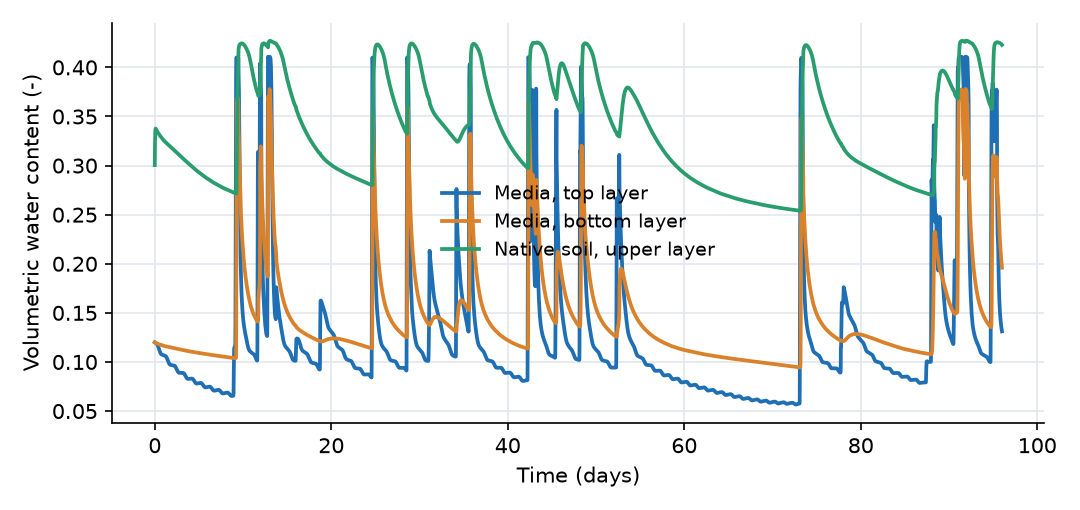
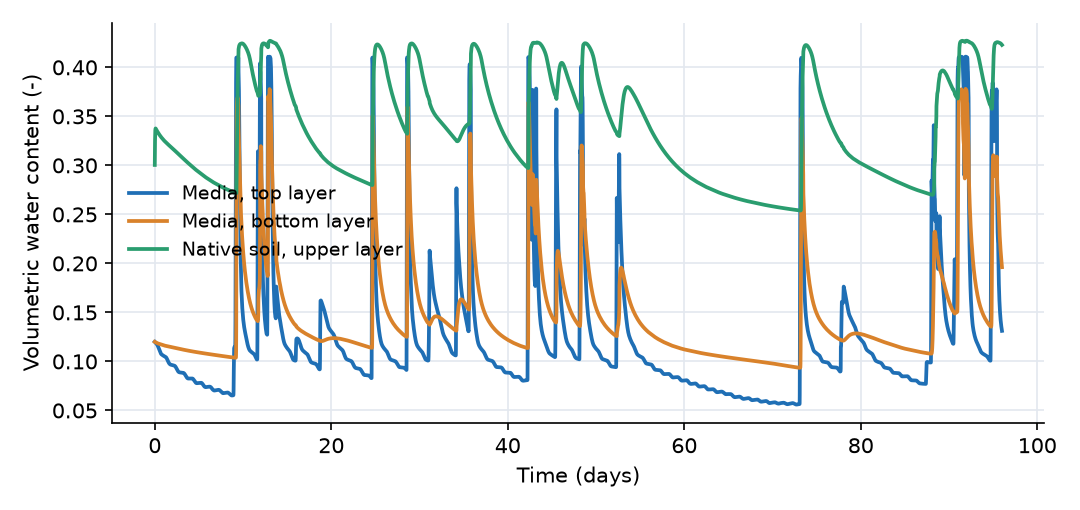
bioretention: re-run with corrected Penman slope; updated water budget and ET description

diff --git a/site/examples/bioretention/index.html b/site/examples/bioretention/index.html
@@ -24,7 +24,7 @@
 <aside class="ex-side">
   <div class="dlbox">
     <a class="btn primary big" href="../../downloads/bioretention.zip" download>Download model (.zip)</a>
-    <div class="muted">63 KB · 6 files · open <code>bioretention.ohq</code> in OpenHydroQual and press Run</div>
+    <div class="muted">64 KB · 6 files · open <code>bioretention.ohq</code> in OpenHydroQual and press Run</div>
     
   </div>
   <nav class="toc"><b>On this page</b>
@@ -56,15 +56,17 @@
 <p><strong>Exfiltration and recharge.</strong> <code>Exfiltration</code> (<code>aggregate_to_soil_link</code>) is Q = (H_gravel − H_native1)·K_sat,native/(D/2)·A·h_g/(h_g + 0.01), which uses the saturated native-soil conductivity and stops as the gravel empties. <code>Recharge</code> (<code>soil_to_fixedhead_link</code>) carries water from the lower native layer to the water table with Q = (H_native2 − H_wt)·K_eff/(D/2)·A.</p>
 <p><strong>Evapotranspiration.</strong> <code>Penman_ET</code> (type <code>Evapotranspiration_Penman (Soil)</code>) withdraws water from <code>Media_1</code> at</p>
 <p>ET = A · (θ/θ_s) · (Δ·E_r + γ·E_a)/(Δ + γ)  (m³/day, negative)</p>
-<p>with a radiation term E_r = −f_s·R_s·86400/(λ_v·1000) (m/day; R_s in W/m², λ_v = 2,501,000 − 2,370·T J/kg, f_s = 0.5), an aerodynamic term E_a = B·e_s·(RH − 1) with B = 0.000102·u/[ln(z₂/z₀)]², e_s = 611·exp(17.27T/(237.3 + T)) Pa, z₂ = 10 m, z₀ = 0.0003 m, and γ = 66.8 Pa/°C. The factor θ/θ_s reduces ET as the layer dries. In the plugin, the slope of the saturation vapour pressure curve is written as Δ = 4098·e_s/(237.3 + T), without the square on the denominator of the usual formula, so Δ is about 260 times larger than the standard value. As a result, Δ/(Δ + γ) is close to 1 and the computed ET is practically the radiation term alone; wind speed and humidity have almost no effect.</p>
+<p>with a radiation term E_r = −f_s·R_s·86400/(λ_v·1000) (m/day; R_s in W/m², λ_v = 2,501,000 − 2,370·T J/kg, f_s = 0.5), an aerodynamic term E_a = B·e_s·(RH − 1) with B = 0.000102·u/[ln(z₂/z₀)]², e_s = 611·exp(17.27T/(237.3 + T)) Pa, z₂ = 10 m, z₀ = 0.0003 m, γ = 66.8 Pa/°C, and the slope of the saturation vapour pressure curve</p>
+<p>Δ = 4098 · e_s / (237.3 + T)²  (Pa/°C)</p>
+<p>This is the standard Penman combination of an energy term and a drying-power term, each weighted by its share of Δ + γ. At 25 °C, Δ ≈ 189 Pa/°C, so the radiation term carries about 74% of the weight and the aerodynamic term about 26%. The aerodynamic term grows with wind speed u and with the vapour pressure deficit e_s·(1 − RH). The factor θ/θ_s reduces ET as the layer dries.</p>
 <h2>What to look for in the results</h2>
 <ul>
-<li><strong>Water budget.</strong> Over 96 days, 370.6 mm of rain falls, delivering 775 m³ to the cell (738 m³ of runoff and 37 m³ of direct rain). Of this, 46% leaves through the underdrain (356 m³), 35% exfiltrates into the native soil (269 m³), 14% overflows (111 m³) and 2% evaporates (15 m³); the rest is stored in the soil at the end. The storage changes and outflows balance the rainfall to within 0.1%.</li>
+<li><strong>Water budget.</strong> Over 96 days, 370.6 mm of rain falls on the 2,100 m² of parking area and cell, 778 m³ in total. The cell receives 738 m³ of runoff and 37 m³ of direct rain. The storm sewer receives 484 m³ (62%): about 357 m³ through the underdrain (46%) and about 127 m³ as overflow (16%). About 275 m³ (35%) exfiltrates into the native soil, of which 263 m³ reaches the water table by the end of the run. Evapotranspiration removes 14 m³ (1.8%), and the media, gravel and native soil hold 16 m³ more water at the end than at the start. The storage changes, boundary inflows and ET balance the rainfall to within 0.1%.</li>
 <li><strong>Overflow only in large storms.</strong> The ponding depth reaches the 0.25 m crest only in the 47 mm storm on day 12 and the 118 mm storm on day 91, when the runoff rate exceeds what the media can take in. All other storms are fully treated.</li>
 <li><strong>Short ponding.</strong> In most storms the ponding zone empties within a few hours of the end of the rain, because the media conducts 1.5 m/day when saturated.</li>
 <li><strong>Internal water storage.</strong> The gravel water level rises to 0.12 to 0.14 m in most storms, so the underdrain flows for only about 7 days in total. Between storms the 0.1 m below the invert drains slowly into the native soil.</li>
 <li><strong>Fast media, slow native soil.</strong> The media moisture swings between near-residual (0.06) and saturation (0.41). The native loam stays between 0.25 and 0.43 and drains more slowly, which limits exfiltration.</li>
-<li><strong>Evapotranspiration.</strong> ET averages 1.5 mm/day over the cell. It is close to 3 mm/day right after a storm and falls below 1 mm/day after a week without rain, as the top layer dries toward its residual water content.</li>
+<li><strong>Evapotranspiration.</strong> ET averages 1.5 mm/day over the cell. It reaches 2 to 3 mm/day in the day or two after a storm and falls to about 1 mm/day or less after a week without rain, as the top layer dries toward its residual water content. ET is limited by the water in the top layer more than by the weather: the potential rate on a summer day is several mm/day.</li>
 </ul>
 <h2>Assumptions and limitations</h2>
 <ul>
@@ -72,10 +74,10 @@
 <li>The ponding zone has vertical sides, so its surface area does not grow with depth.</li>
 <li>Four media and soil layers are a coarse discretization of the vertical profile. Finer layers resolve wetting fronts better at a higher computing cost.</li>
 <li>The head of each soil block is referenced to its top. At the link from the native soil to the water table, which uses half a block thickness as its length, this makes the gravity gradient 2 (twice that of a cell-centred formulation) when the bottom block is saturated. At the pond-to-media link it has the opposite effect: the gravity term over the top half layer is left out, and infiltration is driven by ponding depth and suction alone.</li>
-<li>The Penman source uses a slope Δ that is not squared in the denominator (see above), so ET depends almost only on solar radiation. Evapotranspiration is taken only from the top 0.2 m, with no explicit root uptake or plant water stress, and it can dry the top layer to its residual water content.</li>
+<li>The radiation term uses half of the incoming solar radiation as available energy (f_s = 0.5), a simple stand-in for net radiation and soil heat flux. Evapotranspiration is taken only from the top 0.2 m, with no explicit root uptake or plant water stress, and it can dry the top layer to its residual water content.</li>
 <li>The parking area has no depression storage or losses. Runoff water quality is not modelled.</li>
 <li>Soil hydraulic parameters are textbook values for a loamy sand media and a loam native soil, not site measurements. The media conductivity is set lower than that of a new loamy sand to represent some clogging.</li>
-<li>The wind speed unit in the source data was not documented. Because the aerodynamic term has almost no weight in this ET formulation, the assumption made in the conversion has a negligible effect on the results.</li>
+<li>Data assumption: the wind speed unit in the source record was not documented. The values were assumed to be in mph, converted to m/s (×0.447), and taken as measured at z₂ = 10 m, the standard height of an airport anemometer. If the original values were in another unit, the aerodynamic part of ET (about a quarter of the total weight) would be scaled accordingly.</li>
 </ul></section>
 <section id="diagram"><h2>Model diagram</h2>
 <div class="diagram"><svg xmlns="http://www.w3.org/2000/svg" viewBox="140 -60 1370 2166" class="ohq-diagram" style="max-width:685px" role="img" aria-label="Model diagram">
@@ -150,11 +152,11 @@
 </div>
 <h3>Sources <small>2</small></h3><p class='kind-blurb'>External inputs or sinks applied to blocks: rainfall, evaporation, loads, exchange with the atmosphere.</p><div class='comp-list'>
 <details class='comp' id='c-Rain'><summary><span class='cname'>Rain</span><span class='ctype'>Precipitation</span><span class='crole'><p>Hourly rainfall at BWI airport, Maryland, 1 July to 4 October 2010, applied to the parking area and to the ponding zone.</p></span></summary><div class='cbody'><p class=type-help><b>Precipitation:</b> Precipitation</p><table class='props'><thead><tr><th>Property</th><th>Value</th><th>Unit</th><th>Meaning</th></tr></thead><tbody><tr><td>Precipitation Cumulative</td><td class='v'>rainfall.txt</td><td>m</td><td></td></tr></tbody></table></div></details>
-<details class='comp' id='c-Penman-ET'><summary><span class='cname'>Penman_ET</span><span class='ctype'>Evapotranspiration_Penman (Soil) · soil_evapotranspiration_models</span><span class='crole'><p>Penman-type evapotranspiration from the top media layer, driven by hourly air temperature, relative humidity, solar radiation and wind speed, with half of the incoming solar radiation taken as available energy.</p></span></summary><div class='cbody'><p class=type-help><b>Evapotranspiration_Penman (Soil):</b> Penman Evapotranspiration model for soil</p><table class='props'><thead><tr><th>Property</th><th>Value</th><th>Unit</th><th>Meaning</th></tr></thead><tbody><tr><td>Temperature time series (°C)</td><td class='v'>air_temperature.csv</td><td></td><td></td></tr><tr><td>Relative humidity time series (fraction, 0-1)</td><td class='v'>relative_humidity.csv</td><td></td><td></td></tr><tr><td>Solar Radiation (W/m^2)</td><td class='v'>solar_radiation.csv</td><td></td><td></td></tr><tr><td>wind time series</td><td class='v'>wind_speed.csv</td><td>m/s</td><td></td></tr><tr><td>Solar radiation scale factor</td><td class='v'>0.5</td><td></td><td></td></tr><tr><td>Wind scale factor</td><td class='v'>1</td><td></td><td></td></tr><tr><td>Wind measurement elevation</td><td class='v'>10</td><td>m</td><td></td></tr><tr><td>Roughness height</td><td class='v'>0.0003</td><td>m</td><td></td></tr><tr><td>psychrometric constant (Pa/C)</td><td class='v'>66.8</td><td></td><td></td></tr></tbody></table></div></details>
+<details class='comp' id='c-Penman-ET'><summary><span class='cname'>Penman_ET</span><span class='ctype'>Evapotranspiration_Penman (Soil) · soil_evapotranspiration_models</span><span class='crole'><p>Penman-type evapotranspiration from the top media layer, driven by hourly air temperature, relative humidity, solar radiation and wind speed, with half of the incoming solar radiation taken as available energy. Uses the standard Penman combination equation.</p></span></summary><div class='cbody'><p class=type-help><b>Evapotranspiration_Penman (Soil):</b> Penman Evapotranspiration model for soil</p><table class='props'><thead><tr><th>Property</th><th>Value</th><th>Unit</th><th>Meaning</th></tr></thead><tbody><tr><td>Temperature time series (°C)</td><td class='v'>air_temperature.csv</td><td></td><td></td></tr><tr><td>Relative humidity time series (fraction, 0-1)</td><td class='v'>relative_humidity.csv</td><td></td><td></td></tr><tr><td>Solar Radiation (W/m^2)</td><td class='v'>solar_radiation.csv</td><td></td><td></td></tr><tr><td>wind time series</td><td class='v'>wind_speed.csv</td><td>m/s</td><td></td></tr><tr><td>Solar radiation scale factor</td><td class='v'>0.5</td><td></td><td></td></tr><tr><td>Wind scale factor</td><td class='v'>1</td><td></td><td></td></tr><tr><td>Wind measurement elevation</td><td class='v'>10</td><td>m</td><td></td></tr><tr><td>Roughness height</td><td class='v'>0.0003</td><td>m</td><td></td></tr><tr><td>psychrometric constant (Pa/C)</td><td class='v'>66.8</td><td></td><td></td></tr></tbody></table></div></details>
 </div></section>
-<section id="inputs"><h2>Input files</h2><table class="props files"><tbody><tr><td><code>rainfall.txt</code></td><td><p>Rainfall in the three-column precipitation format: interval start (day), interval end (day), rainfall depth in the interval (m). Hourly intervals; day 0 is 1 July 2010; dry hours are omitted. Source: NOAA hourly precipitation record at Baltimore/Washington International Airport (BWI), Maryland, USA (US public domain, 0.01 in = 0.254 mm resolution).</p></td></tr><tr><td><code>air_temperature.csv</code></td><td><p>Air temperature (°C) versus time (day, day 0 = 1 July 2010), roughly hourly. Hourly weather record at BWI airport, Maryland, USA.</p></td></tr><tr><td><code>relative_humidity.csv</code></td><td><p>Relative humidity as a fraction (0 to 1) versus time (day). Hourly weather record at BWI airport, Maryland, USA.</p></td></tr><tr><td><code>solar_radiation.csv</code></td><td><p>Incoming solar radiation (W/m²) versus time (day), every 30 minutes. Weather record at BWI airport, Maryland, USA.</p></td></tr><tr><td><code>wind_speed.csv</code></td><td><p>Wind speed (m/s) versus time (day). Hourly weather record at BWI airport, Maryland, USA. The source file gave no unit; its values were taken to be in mph and multiplied by 0.447 to convert to m/s.</p></td></tr></tbody></table></section>
+<section id="inputs"><h2>Input files</h2><table class="props files"><tbody><tr><td><code>rainfall.txt</code></td><td><p>Rainfall in the three-column precipitation format: interval start (day), interval end (day), rainfall depth in the interval (m). Hourly intervals; day 0 is 1 July 2010; dry hours are omitted. Source: NOAA hourly precipitation record at Baltimore/Washington International Airport (BWI), Maryland, USA (US public domain, 0.01 in = 0.254 mm resolution).</p></td></tr><tr><td><code>air_temperature.csv</code></td><td><p>Air temperature (°C) versus time (day, day 0 = 1 July 2010), roughly hourly. Hourly weather record at BWI airport, Maryland, USA.</p></td></tr><tr><td><code>relative_humidity.csv</code></td><td><p>Relative humidity as a fraction (0 to 1) versus time (day). Hourly weather record at BWI airport, Maryland, USA.</p></td></tr><tr><td><code>solar_radiation.csv</code></td><td><p>Incoming solar radiation (W/m²) versus time (day), every 30 minutes. Weather record at BWI airport, Maryland, USA.</p></td></tr><tr><td><code>wind_speed.csv</code></td><td><p>Wind speed (m/s) versus time (day). Hourly weather record at BWI airport, Maryland, USA. Data assumption: the source file gave no unit; its values were taken to be in mph, multiplied by 0.447 to convert to m/s, and treated as measured at 10 m height.</p></td></tr></tbody></table></section>
 <section id="settings"><h2>Simulation settings</h2><table class="props narrow"><tbody><tr><td>Start time</td><td class='v'>0</td></tr><tr><td>End time</td><td class='v'>96.0</td></tr><tr><td>Initial time step</td><td class='v'>0.001</td></tr><tr><td>Write interval (steps)</td><td class='v'>10</td></tr></tbody></table></section>
-<section id="results"><h2>Results</h2><p class="muted">Produced by running the downloaded model unchanged.</p><figure><img src='plot_1.png' alt='Inflow and outflows of the cell' loading='lazy'><figcaption><b>Inflow and outflows of the cell</b> Runoff peaks are cut down to a few hundred m³/day at most. The underdrain and exfiltration release water over hours to days, and overflow occurs only in the 47 mm storm on day 12 and the 118 mm storm on day 91.</figcaption></figure><figure><img src='plot_2.png' alt='Water levels in the ponding zone and the gravel' loading='lazy'><figcaption><b>Water levels in the ponding zone and the gravel</b> Ponding is short-lived and reaches the 0.25 m overflow crest only in the largest storms. The gravel water level rises above the underdrain invert (0.1 m) in each storm and falls back to it, and below it, by exfiltration.</figcaption></figure><figure><img src='plot_3.png' alt='Moisture content of the media and native soil' loading='lazy'><figcaption><b>Moisture content of the media and native soil</b> The sandy media saturates briefly in storms and then drains quickly; the top layer keeps drying by evapotranspiration toward the residual water content. The finer native soil stays wetter and responds more slowly.</figcaption></figure><figure><img src='plot_4.png' alt='Evapotranspiration from the media' loading='lazy'><figcaption><b>Evapotranspiration from the media</b> ET follows the daily solar cycle and is largest just after storms, when the top layer is wet. It declines through dry spells as the media dries.</figcaption></figure></section>
+<section id="results"><h2>Results</h2><p class="muted">Produced by running the downloaded model unchanged.</p><figure><img src='plot_1.png' alt='Inflow and outflows of the cell' loading='lazy'><figcaption><b>Inflow and outflows of the cell</b> Runoff peaks are cut down to a few hundred m³/day at most. The underdrain and exfiltration release water over hours to days, and overflow occurs only in the 47 mm storm on day 12 and the 118 mm storm on day 91.</figcaption></figure><figure><img src='plot_2.png' alt='Water levels in the ponding zone and the gravel' loading='lazy'><figcaption><b>Water levels in the ponding zone and the gravel</b> Ponding is short-lived and reaches the 0.25 m overflow crest only in the largest storms. The gravel water level rises above the underdrain invert (0.1 m) in each storm and falls back to it, and below it, by exfiltration.</figcaption></figure><figure><img src='plot_3.png' alt='Moisture content of the media and native soil' loading='lazy'><figcaption><b>Moisture content of the media and native soil</b> The sandy media saturates briefly in storms and then drains quickly; the top layer keeps drying by evapotranspiration toward the residual water content. The finer native soil stays wetter and responds more slowly.</figcaption></figure><figure><img src='plot_4.png' alt='Evapotranspiration from the media' loading='lazy'><figcaption><b>Evapotranspiration from the media</b> ET follows the daily cycle of radiation, temperature and humidity and is largest just after storms, when the top layer is wet. It declines through dry spells as the media dries.</figcaption></figure></section>
 </article></main>
 <footer class="foot"><div class="wrap">OpenHydroQual is open source. This example is free to use and adapt.
 <a href="https://github.com/ArashMassoudieh/OpenHydroQual-Examples/tree/main/examples/bioretention">View source on GitHub</a>.</div></footer>

diff --git a/examples/bioretention/README.md b/examples/bioretention/README.md
@@ -29,13 +29,13 @@ components:
   Native_1_to_2: Unsaturated flow between the two native soil layers. Positive downward.
   Recharge: Flow from the native soil to the water table. Positive downward.
   Rain: Hourly rainfall at BWI airport, Maryland, 1 July to 4 October 2010, applied to the parking area and to the ponding zone.
-  Penman_ET: "Penman-type evapotranspiration from the top media layer, driven by hourly air temperature, relative humidity, solar radiation and wind speed, with half of the incoming solar radiation taken as available energy."
+  Penman_ET: "Penman-type evapotranspiration from the top media layer, driven by hourly air temperature, relative humidity, solar radiation and wind speed, with half of the incoming solar radiation taken as available energy. Uses the standard Penman combination equation."
 inputs:
   rainfall.txt: "Rainfall in the three-column precipitation format: interval start (day), interval end (day), rainfall depth in the interval (m). Hourly intervals; day 0 is 1 July 2010; dry hours are omitted. Source: NOAA hourly precipitation record at Baltimore/Washington International Airport (BWI), Maryland, USA (US public domain, 0.01 in = 0.254 mm resolution)."
   air_temperature.csv: "Air temperature (°C) versus time (day, day 0 = 1 July 2010), roughly hourly. Hourly weather record at BWI airport, Maryland, USA."
   relative_humidity.csv: "Relative humidity as a fraction (0 to 1) versus time (day). Hourly weather record at BWI airport, Maryland, USA."
   solar_radiation.csv: "Incoming solar radiation (W/m²) versus time (day), every 30 minutes. Weather record at BWI airport, Maryland, USA."
-  wind_speed.csv: "Wind speed (m/s) versus time (day). Hourly weather record at BWI airport, Maryland, USA. The source file gave no unit; its values were taken to be in mph and multiplied by 0.447 to convert to m/s."
+  wind_speed.csv: "Wind speed (m/s) versus time (day). Hourly weather record at BWI airport, Maryland, USA. Data assumption: the source file gave no unit; its values were taken to be in mph, multiplied by 0.447 to convert to m/s, and treated as measured at 10 m height."
 plots:
   - title: Inflow and outflows of the cell
     ylabel: Flow (m³/day)
@@ -62,7 +62,7 @@ plots:
     ylabel: ET (m³/day, negative = loss)
     series:
       - {column: "Media_1_Evapotranspiration", label: "Evapotranspiration"}
-    caption: ET follows the daily solar cycle and is largest just after storms, when the top layer is wet. It declines through dry spells as the media dries.
+    caption: ET follows the daily cycle of radiation, temperature and humidity and is largest just after storms, when the top layer is wet. It declines through dry spells as the media dries.
 ---
 
 ## What this model represents
@@ -107,16 +107,20 @@ so there is no underdrain flow while the gravel water depth is below 0.1 m. The 
 
   ET = A · (θ/θ_s) · (Δ·E_r + γ·E_a)/(Δ + γ)  (m³/day, negative)
 
-with a radiation term E_r = −f_s·R_s·86400/(λ_v·1000) (m/day; R_s in W/m², λ_v = 2,501,000 − 2,370·T J/kg, f_s = 0.5), an aerodynamic term E_a = B·e_s·(RH − 1) with B = 0.000102·u/[ln(z₂/z₀)]², e_s = 611·exp(17.27T/(237.3 + T)) Pa, z₂ = 10 m, z₀ = 0.0003 m, and γ = 66.8 Pa/°C. The factor θ/θ_s reduces ET as the layer dries. In the plugin, the slope of the saturation vapour pressure curve is written as Δ = 4098·e_s/(237.3 + T), without the square on the denominator of the usual formula, so Δ is about 260 times larger than the standard value. As a result, Δ/(Δ + γ) is close to 1 and the computed ET is practically the radiation term alone; wind speed and humidity have almost no effect.
+with a radiation term E_r = −f_s·R_s·86400/(λ_v·1000) (m/day; R_s in W/m², λ_v = 2,501,000 − 2,370·T J/kg, f_s = 0.5), an aerodynamic term E_a = B·e_s·(RH − 1) with B = 0.000102·u/[ln(z₂/z₀)]², e_s = 611·exp(17.27T/(237.3 + T)) Pa, z₂ = 10 m, z₀ = 0.0003 m, γ = 66.8 Pa/°C, and the slope of the saturation vapour pressure curve
+
+  Δ = 4098 · e_s / (237.3 + T)²  (Pa/°C)
+
+This is the standard Penman combination of an energy term and a drying-power term, each weighted by its share of Δ + γ. At 25 °C, Δ ≈ 189 Pa/°C, so the radiation term carries about 74% of the weight and the aerodynamic term about 26%. The aerodynamic term grows with wind speed u and with the vapour pressure deficit e_s·(1 − RH). The factor θ/θ_s reduces ET as the layer dries.
 
 ## What to look for in the results
 
-- **Water budget.** Over 96 days, 370.6 mm of rain falls, delivering 775 m³ to the cell (738 m³ of runoff and 37 m³ of direct rain). Of this, 46% leaves through the underdrain (356 m³), 35% exfiltrates into the native soil (269 m³), 14% overflows (111 m³) and 2% evaporates (15 m³); the rest is stored in the soil at the end. The storage changes and outflows balance the rainfall to within 0.1%.
+- **Water budget.** Over 96 days, 370.6 mm of rain falls on the 2,100 m² of parking area and cell, 778 m³ in total. The cell receives 738 m³ of runoff and 37 m³ of direct rain. The storm sewer receives 484 m³ (62%): about 357 m³ through the underdrain (46%) and about 127 m³ as overflow (16%). About 275 m³ (35%) exfiltrates into the native soil, of which 263 m³ reaches the water table by the end of the run. Evapotranspiration removes 14 m³ (1.8%), and the media, gravel and native soil hold 16 m³ more water at the end than at the start. The storage changes, boundary inflows and ET balance the rainfall to within 0.1%.
 - **Overflow only in large storms.** The ponding depth reaches the 0.25 m crest only in the 47 mm storm on day 12 and the 118 mm storm on day 91, when the runoff rate exceeds what the media can take in. All other storms are fully treated.
 - **Short ponding.** In most storms the ponding zone empties within a few hours of the end of the rain, because the media conducts 1.5 m/day when saturated.
 - **Internal water storage.** The gravel water level rises to 0.12 to 0.14 m in most storms, so the underdrain flows for only about 7 days in total. Between storms the 0.1 m below the invert drains slowly into the native soil.
 - **Fast media, slow native soil.** The media moisture swings between near-residual (0.06) and saturation (0.41). The native loam stays between 0.25 and 0.43 and drains more slowly, which limits exfiltration.
-- **Evapotranspiration.** ET averages 1.5 mm/day over the cell. It is close to 3 mm/day right after a storm and falls below 1 mm/day after a week without rain, as the top layer dries toward its residual water content.
+- **Evapotranspiration.** ET averages 1.5 mm/day over the cell. It reaches 2 to 3 mm/day in the day or two after a storm and falls to about 1 mm/day or less after a week without rain, as the top layer dries toward its residual water content. ET is limited by the water in the top layer more than by the weather: the potential rate on a summer day is several mm/day.
 
 ## Assumptions and limitations
 
@@ -124,7 +128,7 @@ with a radiation term E_r = −f_s·R_s·86400/(λ_v·1000) (m/day; R_s in W/m²
 - The ponding zone has vertical sides, so its surface area does not grow with depth.
 - Four media and soil layers are a coarse discretization of the vertical profile. Finer layers resolve wetting fronts better at a higher computing cost.
 - The head of each soil block is referenced to its top. At the link from the native soil to the water table, which uses half a block thickness as its length, this makes the gravity gradient 2 (twice that of a cell-centred formulation) when the bottom block is saturated. At the pond-to-media link it has the opposite effect: the gravity term over the top half layer is left out, and infiltration is driven by ponding depth and suction alone.
-- The Penman source uses a slope Δ that is not squared in the denominator (see above), so ET depends almost only on solar radiation. Evapotranspiration is taken only from the top 0.2 m, with no explicit root uptake or plant water stress, and it can dry the top layer to its residual water content.
+- The radiation term uses half of the incoming solar radiation as available energy (f_s = 0.5), a simple stand-in for net radiation and soil heat flux. Evapotranspiration is taken only from the top 0.2 m, with no explicit root uptake or plant water stress, and it can dry the top layer to its residual water content.
 - The parking area has no depression storage or losses. Runoff water quality is not modelled.
 - Soil hydraulic parameters are textbook values for a loamy sand media and a loam native soil, not site measurements. The media conductivity is set lower than that of a new loamy sand to represent some clogging.
-- The wind speed unit in the source data was not documented. Because the aerodynamic term has almost no weight in this ET formulation, the assumption made in the conversion has a negligible effect on the results.
+- Data assumption: the wind speed unit in the source record was not documented. The values were assumed to be in mph, converted to m/s (×0.447), and taken as measured at z₂ = 10 m, the standard height of an airport anemometer. If the original values were in another unit, the aerodynamic part of ET (about a quarter of the total weight) would be scaled accordingly.
